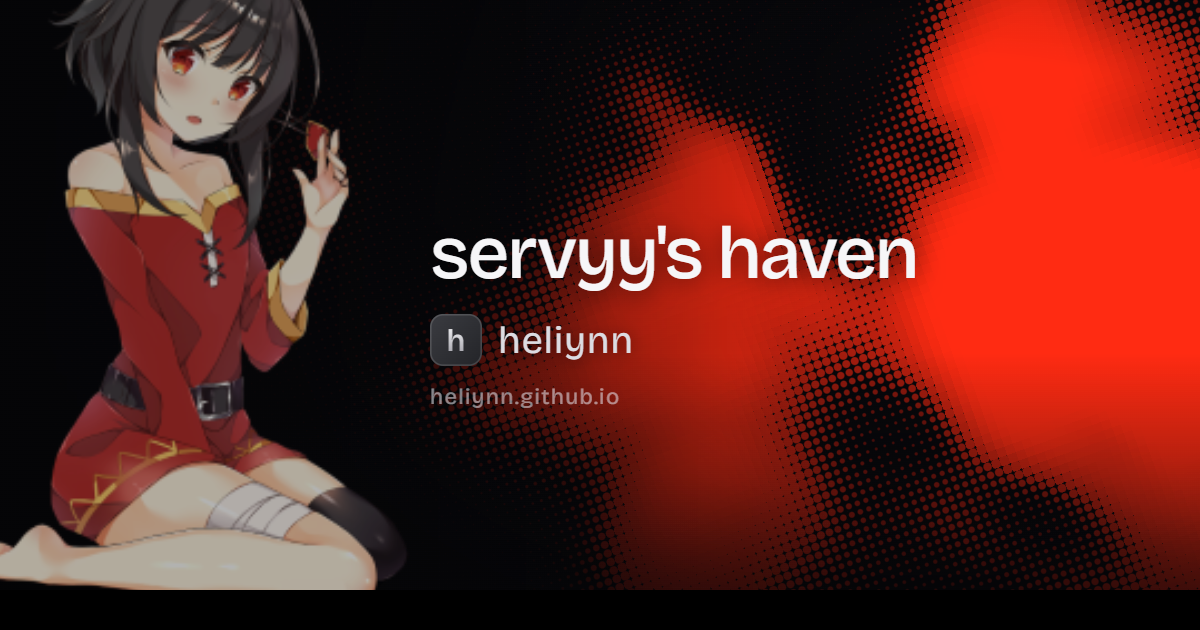
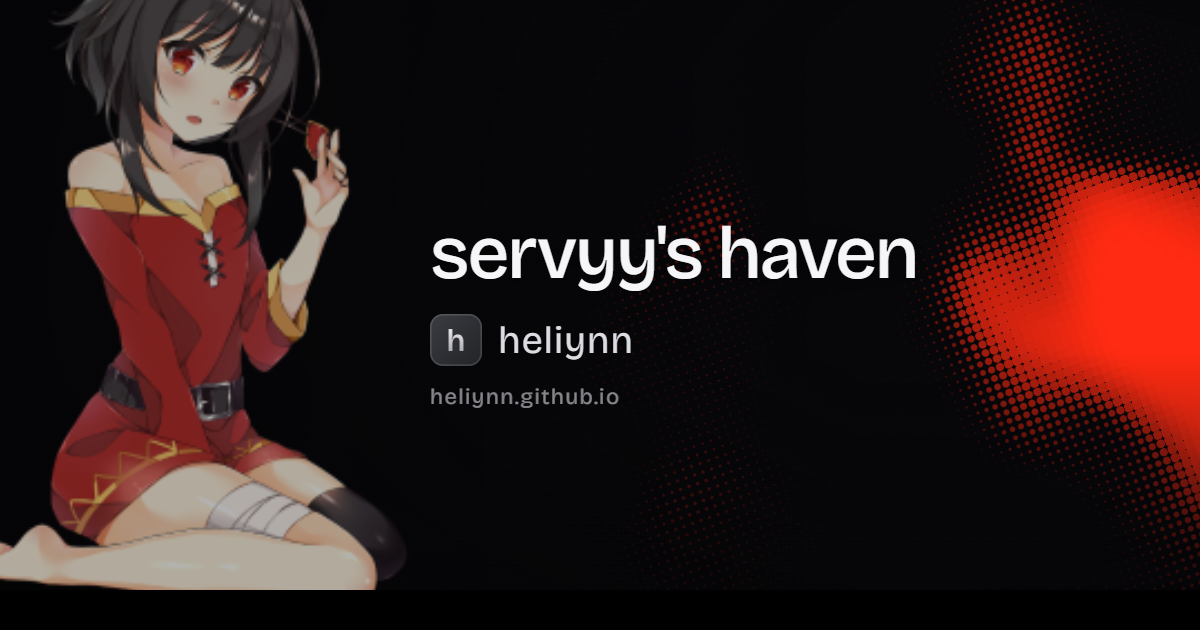
Pull the red back to the corners
Two lights at full strength summed to over one and flooded most of the frame. Their weight and falloff are smaller now and the screen stops at a higher threshold, so black holds most of the screen, dots carry the middle and only the light cores go solid.

Generated with Codebuff

diff --git a/index.html b/index.html
@@ -9,7 +9,7 @@
   <meta property="og:type" content="website" />
   <meta property="og:title" content="servyy's haven" />
   <meta property="og:description" content="I'm heliynn. I use AI to make small tools and websites, then leave them here for whoever wants them." />
-  <meta property="og:image" content="https://heliynn.github.io/assets/share.png?v=5" />
+  <meta property="og:image" content="https://heliynn.github.io/assets/share.png?v=6" />
   <meta property="og:image:type" content="image/png" />
   <meta property="og:image:width" content="1200" />
   <meta property="og:image:height" content="630" />
@@ -17,7 +17,7 @@
   <meta name="twitter:card" content="summary_large_image" />
   <meta name="twitter:title" content="servyy's haven" />
   <meta name="twitter:description" content="I'm heliynn. I use AI to make small tools and websites, then leave them here for whoever wants them." />
-  <meta name="twitter:image" content="https://heliynn.github.io/assets/share.png?v=5" />
+  <meta name="twitter:image" content="https://heliynn.github.io/assets/share.png?v=6" />
   <link rel="icon" href="favicon.svg" type="image/svg+xml" />
   <link rel="preconnect" href="https://fonts.googleapis.com" />
   <link rel="preconnect" href="https://fonts.gstatic.com" crossorigin />
@@ -220,7 +220,7 @@
     </div>
   </div>
 
-  <script src="backdrop.js?v=4"></script>
+  <script src="backdrop.js?v=5"></script>
   <script src="content.js?v=18"></script>
   <script src="script.js?v=14"></script>
 </body>

diff --git a/backdrop.js b/backdrop.js
@@ -77,9 +77,9 @@
       vec2 right = vec2(0.76 + 0.18 * cos(t * 0.037), 0.52 + 0.24 * sin(t * 0.031));
       vec2 dl = (uv - left) * vec2(1.15, 1.0);
       vec2 dr = (uv - right) * vec2(1.15, 1.0);
-      float light = exp(-dot(dl, dl) * 2.7) * 0.66 + exp(-dot(dr, dr) * 3.0) * 0.58;
+      float light = exp(-dot(dl, dl) * 4.0) * 0.34 + exp(-dot(dr, dr) * 4.2) * 0.34;
 
-      return clamp(0.13 + (n - 0.5) * 1.35 + light - 0.08, 0.0, 1.0);
+      return clamp(0.12 + (n - 0.5) * 1.3 + light - 0.08, 0.0, 1.0);
     }
 
     void main() {
@@ -95,7 +95,7 @@
       vec2 centre = vec2(ca * cell.x + sa * cell.y, -sa * cell.x + ca * cell.y) * uStep;
 
       /* stretch the mid tones so bright regions actually saturate */
-      float v = smoothstep(0.08, 0.86, field(centre, uTime));
+      float v = smoothstep(0.13, 0.90, field(centre, uTime));
 
       /* a late, steep curve on purpose: dots stay small across most of the
          ramp and only meet right at the top, so the run from black through

diff --git a/404.html b/404.html
@@ -39,6 +39,6 @@
 
   <img class="art art--left" src="/assets/art-left.png" alt="" aria-hidden="true" width="217" height="320" />
   <img class="art art--right" src="/assets/art-right.png" alt="" aria-hidden="true" width="228" height="340" />
-  <script src="backdrop.js?v=4"></script>
+  <script src="backdrop.js?v=5"></script>
 </body>
 </html>

diff --git a/fflags-cs.html b/fflags-cs.html
@@ -53,7 +53,7 @@
     </noscript>
   </main>
 
-  <script src="backdrop.js?v=4"></script>
+  <script src="backdrop.js?v=5"></script>
   <script src="viewer.js?v=7"></script>
 </body>
 </html>

diff --git a/fflags-hpp.html b/fflags-hpp.html
@@ -53,7 +53,7 @@
     </noscript>
   </main>
 
-  <script src="backdrop.js?v=4"></script>
+  <script src="backdrop.js?v=5"></script>
   <script src="viewer.js?v=7"></script>
 </body>
 </html>

diff --git a/fflags-txt.html b/fflags-txt.html
@@ -53,7 +53,7 @@
     </noscript>
   </main>
 
-  <script src="backdrop.js?v=4"></script>
+  <script src="backdrop.js?v=5"></script>
   <script src="viewer.js?v=7"></script>
 </body>
 </html>

diff --git a/fflags.html b/fflags.html
@@ -52,7 +52,7 @@
     </noscript>
   </main>
 
-  <script src="backdrop.js?v=4"></script>
+  <script src="backdrop.js?v=5"></script>
   <script src="viewer.js?v=7"></script>
 </body>
 </html>

diff --git a/offsets-cs.html b/offsets-cs.html
@@ -53,7 +53,7 @@
     </noscript>
   </main>
 
-  <script src="backdrop.js?v=4"></script>
+  <script src="backdrop.js?v=5"></script>
   <script src="viewer.js?v=7"></script>
 </body>
 </html>

diff --git a/offsets-hpp.html b/offsets-hpp.html
@@ -53,7 +53,7 @@
     </noscript>
   </main>
 
-  <script src="backdrop.js?v=4"></script>
+  <script src="backdrop.js?v=5"></script>
   <script src="viewer.js?v=7"></script>
 </body>
 </html>

diff --git a/offsets-txt.html b/offsets-txt.html
@@ -53,7 +53,7 @@
     </noscript>
   </main>
 
-  <script src="backdrop.js?v=4"></script>
+  <script src="backdrop.js?v=5"></script>
   <script src="viewer.js?v=7"></script>
 </body>
 </html>

diff --git a/offsets.html b/offsets.html
@@ -52,7 +52,7 @@
     </noscript>
   </main>
 
-  <script src="backdrop.js?v=4"></script>
+  <script src="backdrop.js?v=5"></script>
   <script src="viewer.js?v=7"></script>
 </body>
 </html>

diff --git a/struct.html b/struct.html
@@ -49,7 +49,7 @@
     </noscript>
   </main>
 
-  <script src="backdrop.js?v=4"></script>
+  <script src="backdrop.js?v=5"></script>
   <script src="viewer.js?v=7"></script>
 </body>
 </html>
